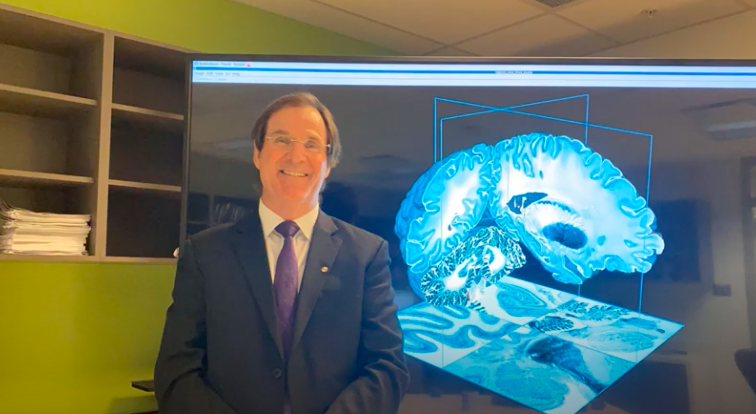
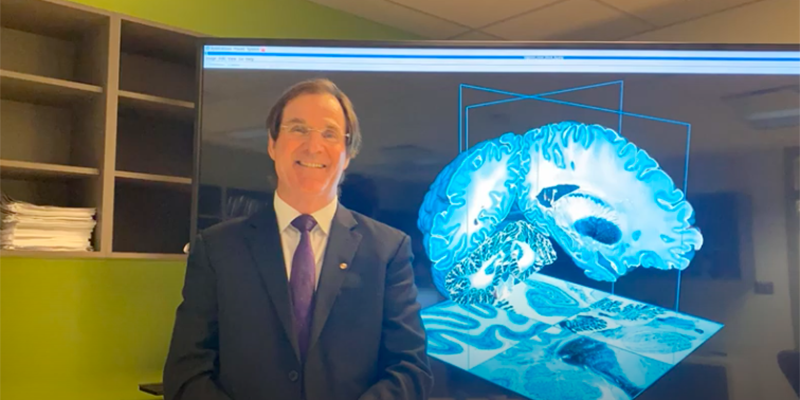
unified image sizes for news to 2:1

diff --git a/news-2.html b/news-2.html
@@ -112,7 +112,7 @@
             <a href="https://montreal.ctvnews.ca/video?clipId=1978400&jwsource=cl" class="tool-link">See Video <i class="fas fa-arrow-right"></i></a>
         </div>
         <div class="namecard fullcard">
-            <img src="images/memorial-dr-zilles.jpg" class="card-image-square">
+            <img src="images/news/memorial-dr-zilles.jpg" class="card-image-square">
             <div class="tool-name">Memorial for Dr Karl Zilles</div>
             <div class="tool-maker"><em>date:</em> May 27 2020</div>
             <div class="tool-description">With great sadness we say goodbye to Karl Zilles who passed away on 26 April 2020. We lose a brilliant scientist, friend, and key partner of the BigBrain Project.
@@ -120,7 +120,7 @@
             <a href="https://www.fz-juelich.de/inm/inm-1/EN/UeberUns/Mitarbeiter/NachrufZilles/_node.html" class="tool-link">Read Obituary <i class="fas fa-arrow-right"></i></a>
         </div>
         <div class="namecard fullcard">
-            <img src="images/alan-prize.png" class="card-image-square">
+            <img src="images/news/alan-prize.png" class="card-image-square">
             <div class="tool-name">Alan Evans awarded Killam Prize</div>
             <div class="tool-maker"><em>date:</em> May 26 2020</div>
             <div class="tool-description">"I am deeply honoured to receive this award. It is indeed very humbling and motivating to be considered for a prize that has been awarded to so many great Canadian scientists in the past."
